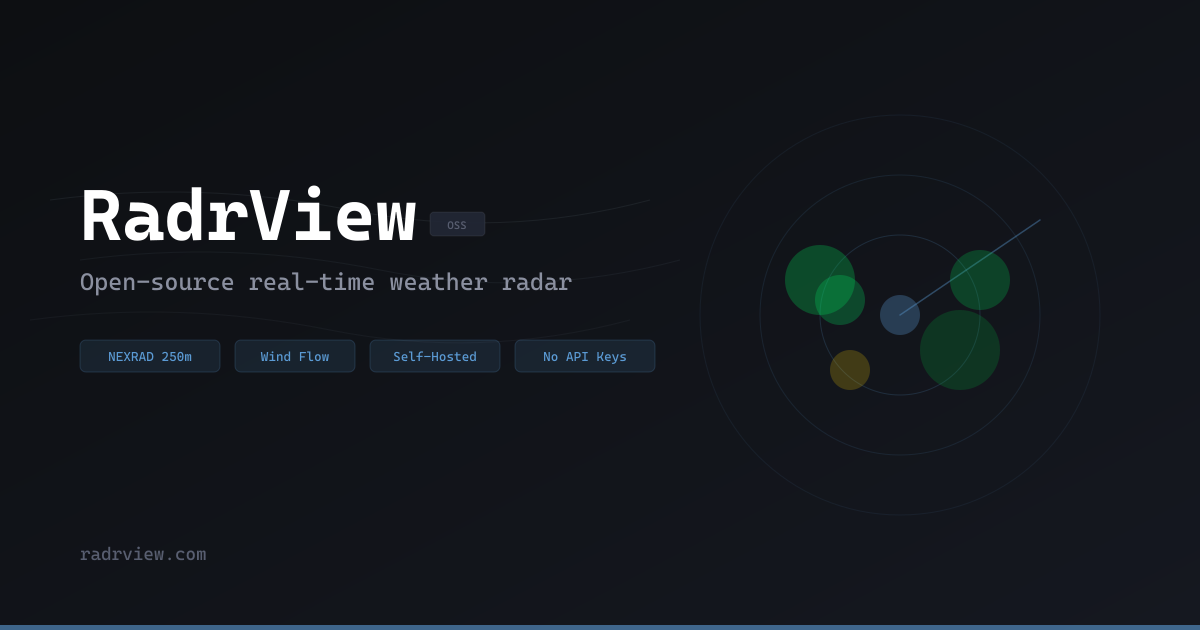
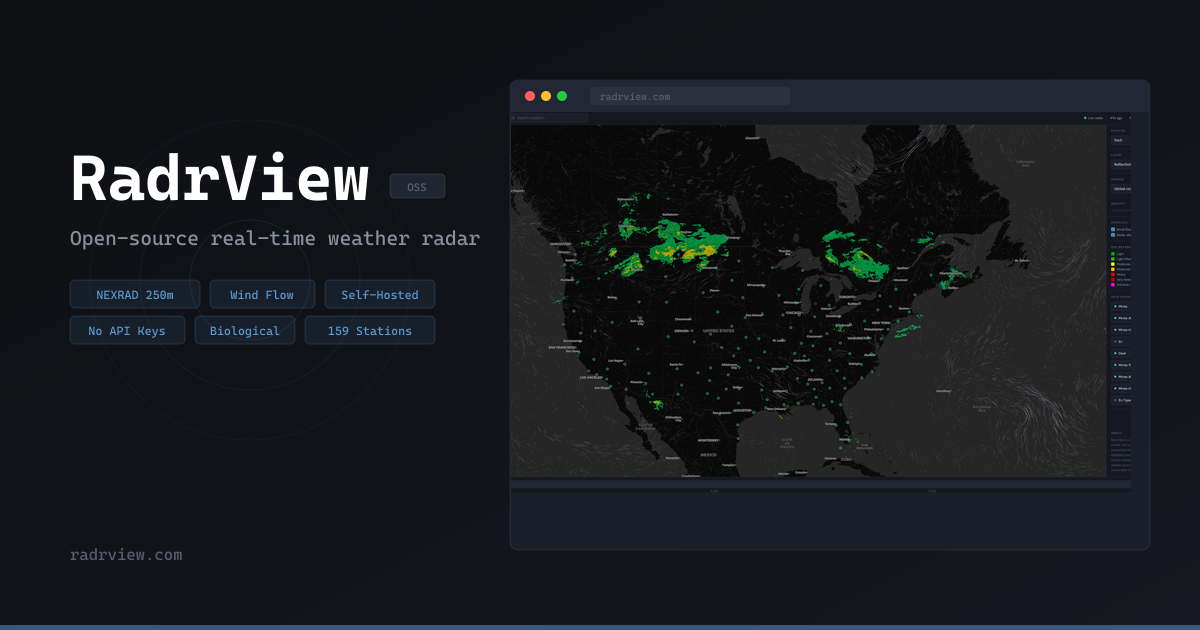
feat: add app screenshot to README and composite OG image with browser preview

diff --git a/README.md b/README.md
@@ -4,6 +4,8 @@ Self-hosted, real-time weather radar with direct NEXRAD Level 2 station access. 
 
 **[Live Demo](https://radrview.com)** | **[Documentation](docs/README.md)** | **[Donate](https://donate.stripe.com/3cI3cv9Vpew2fhf1AUcfK00)**
 
+![RadrView](public/preview.png)
+
 ## What it does
 
 - **Hybrid radar architecture** — MRMS composite at z2-z7 (1km), NEXRAD Level 2 at z8+ (250m native resolution)
